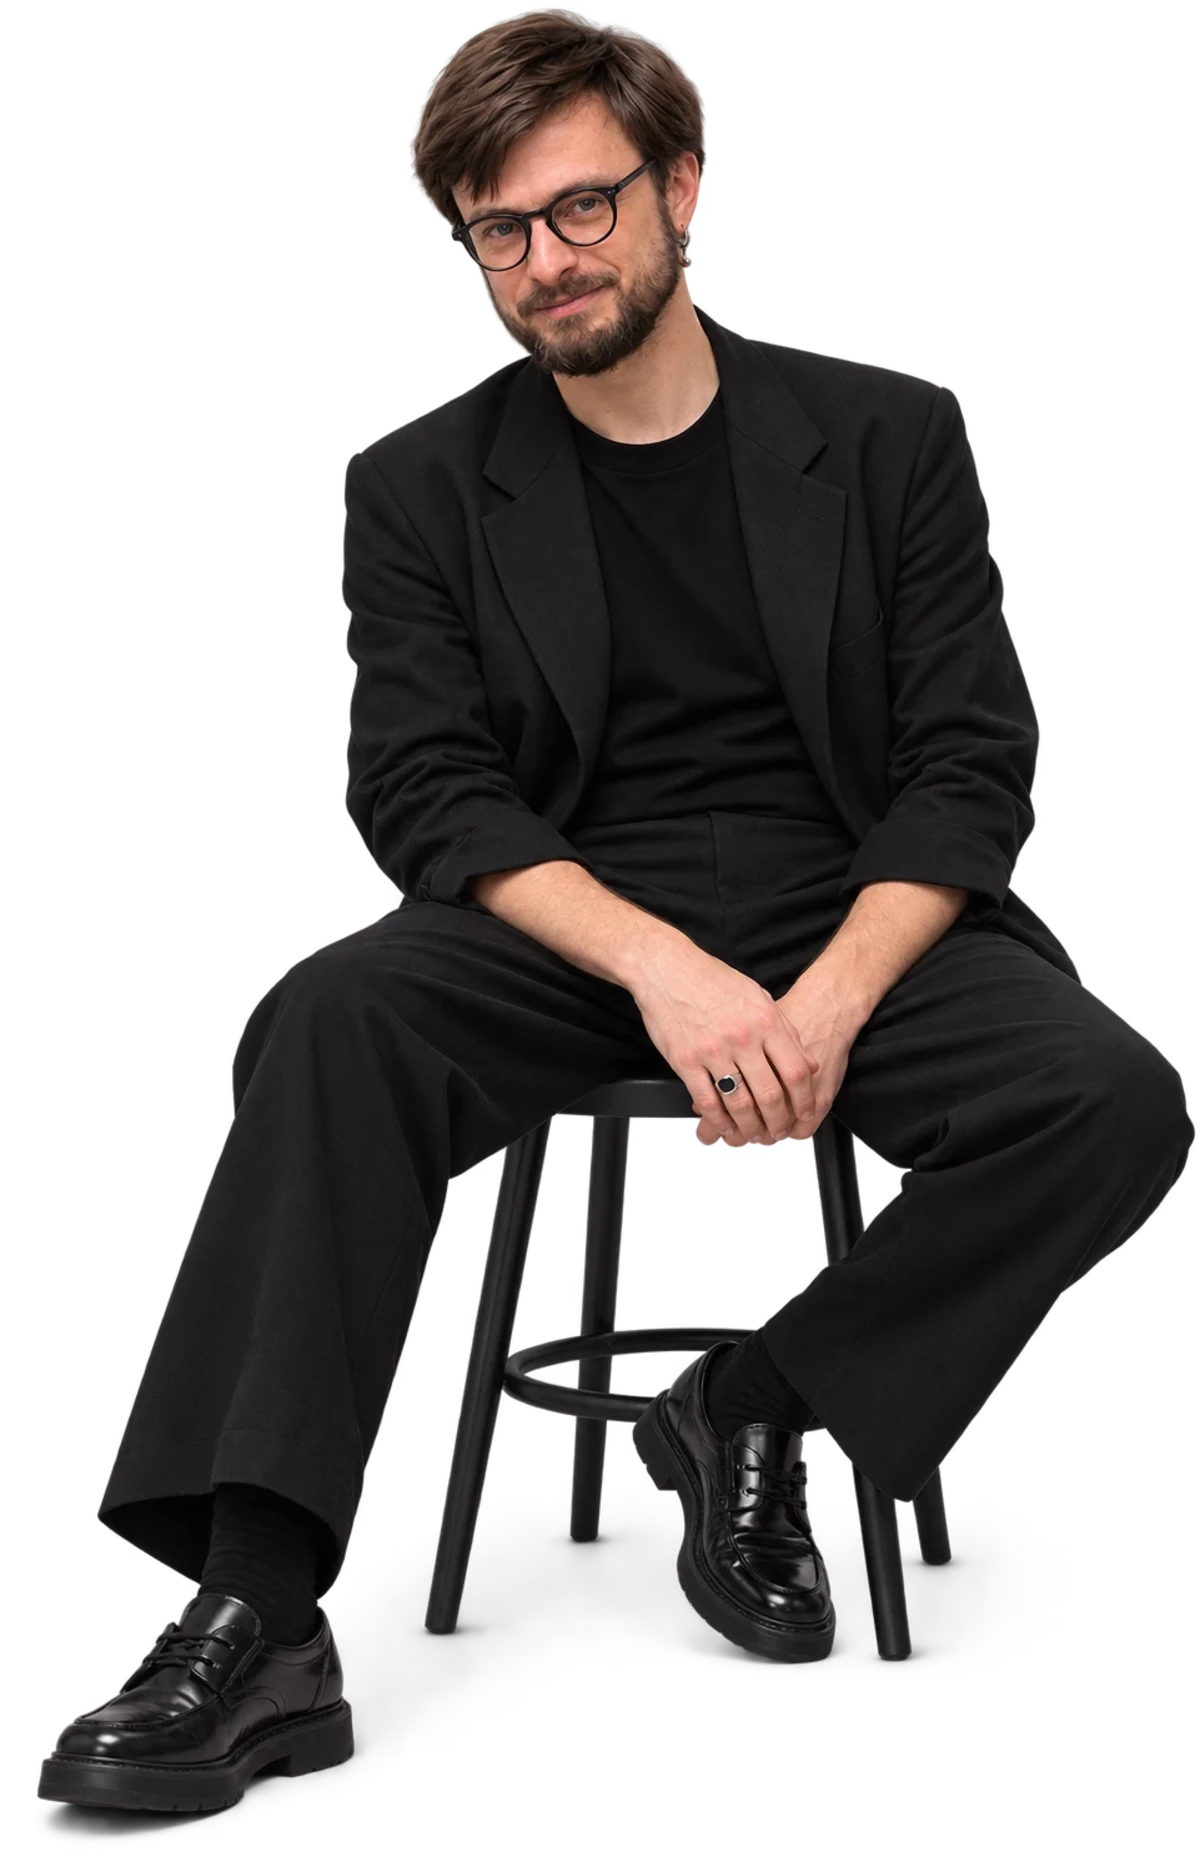
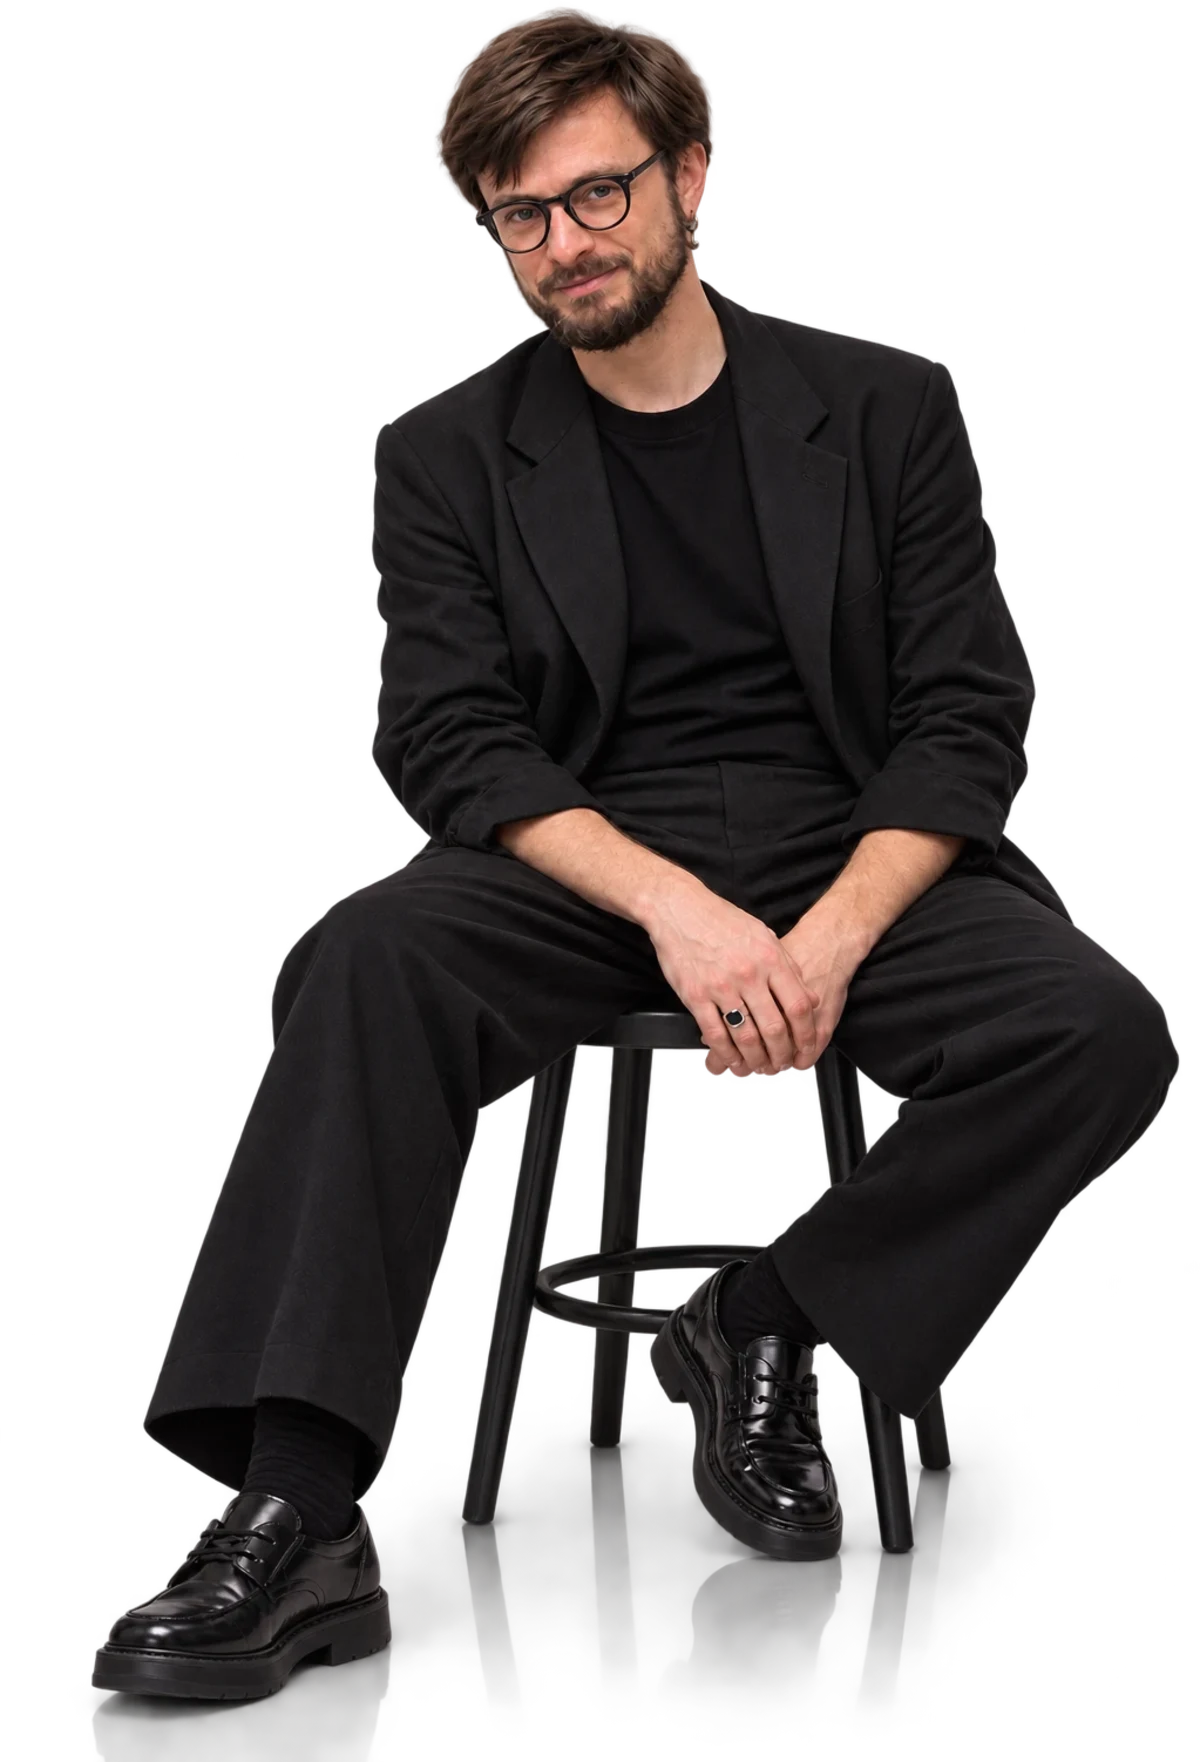
Заход заглушки пересобран
Шапка без вордмарка, подпись слева. «Привет, я Марк Калинин» стал
лидом к тексту, а не заголовком. Композиция поднята к верху экрана
и собрана плотнее: фигура (версия с отражением) перекрывает буквы
справа, надпись заканчивается выше дальней ножки стула. Параллакс
только вертикальный и только при прокрутке — буквы уходят вверх
быстрее фигуры. Воздуха до футера меньше.

diff --git a/app/globals.css b/app/globals.css
@@ -218,17 +218,41 @@ a {
 
 /* Лид начинается с 5-й колонки — там же, где ниже начинается список направлений. */
 /* Заглушка: буквы и фигура — отдельные слои, между ними лёгкий параллакс. */
-/* На заглушке первый экран собран плотнее: композиция вместо списка кейсов. */
+/* Заглушка: композиция слева, текст справа, первый экран собран плотно. */
 .is-soon .hero {
-  padding: clamp(48px, 7vw, 110px) 0 clamp(56px, 7vw, 110px);
+  padding: clamp(28px, 3.5vw, 56px) 0 clamp(40px, 5vw, 72px);
+}
+
+.is-soon .site-header .eyebrow {
+  grid-column: 1 / span 6;
+}
+
+/* «Привет, я Марк Калинин» работает лидом к тексту, а не заголовком. */
+.is-soon .intro {
+  min-height: 0;
+  margin: 0 0 clamp(18px, 1.8vw, 30px);
+  font-size: clamp(25px, 2.5vw, 38px);
+  line-height: 1.1;
+  letter-spacing: -0.04em;
+}
+
+.is-soon .typewriter-caret {
+  width: 1px;
+  height: 0.86em;
+}
+
+.is-soon .hero-copy {
+  grid-column: 5 / span 6;
+  margin-top: 0;
 }
 
 .hero-lockup {
   position: relative;
-  grid-column: 1 / span 6;
+  grid-column: 1 / span 4;
   align-self: start;
-  height: min(60svh, 600px);
-  margin-top: clamp(24px, 3vw, 44px);
+  height: min(64svh, 640px);
+  aspect-ratio: 0.72;
+  margin-top: 0;
 }
 
 .hero-lockup img {
@@ -238,29 +262,22 @@ a {
   will-change: transform;
 }
 
-/* Размер композиции задаёт высота: буквы во всю высоту, фигура поверх них. */
+/* Буквы стоят выше дальней ножки стула, фигура перекрывает их справа.
+   При прокрутке надпись уходит вверх быстрее фигуры — перспектива. */
 .hero-lockup .hero-lockup-type {
   left: 0;
   top: 0;
-  height: 100%;
+  height: 72%;
   width: auto;
-  transform: translate3d(
-    calc(var(--px, 0) * -10px),
-    calc(var(--py, 0) * -8px + var(--sy, 0) * -16px),
-    0
-  );
+  transform: translate3d(0, calc(var(--sy, 0) * -70px), 0);
 }
 
 .hero-lockup .hero-lockup-figure {
-  left: 40%;
-  bottom: -2%;
-  height: 82%;
+  right: 0;
+  bottom: 0;
+  height: 78%;
   width: auto;
-  transform: translate3d(
-    calc(var(--px, 0) * 16px),
-    calc(var(--py, 0) * 12px + var(--sy, 0) * 24px),
-    0
-  );
+  transform: translate3d(0, calc(var(--sy, 0) * -18px), 0);
 }
 
 .hero-copy {
@@ -1048,6 +1065,15 @@ html.case-open .case-pane {
   color: var(--accent);
 }
 
+.is-soon .soon {
+  padding: 16px 0 44px;
+}
+
+.is-soon .site-footer {
+  min-height: 0;
+  padding-top: 44px;
+}
+
 .site-footer {
   align-items: end;
   min-height: 55vh;
@@ -1205,6 +1231,12 @@ html.case-open .case-pane {
     white-space: nowrap;
   }
 
+  /* На заглушке вордмарка нет — подпись идёт слева. */
+  .is-soon .eyebrow {
+    grid-column: 1 / -1;
+    text-align: left;
+  }
+
   .hero {
     padding: 44px 0 56px;
   }
@@ -1226,8 +1258,17 @@ html.case-open .case-pane {
 
   .hero-lockup {
     grid-column: 1 / -1;
-    height: min(52svh, 420px);
-    margin-top: 24px;
+    height: min(46svh, 380px);
+    margin-top: 8px;
+  }
+
+  .is-soon .hero-copy {
+    grid-column: 1 / -1;
+    margin-top: 28px;
+  }
+
+  .is-soon .intro {
+    font-size: 24px;
   }
 
   .hero-copy {

diff --git a/app/page.tsx b/app/page.tsx
@@ -7,51 +7,47 @@ export default function Home() {
   return (
     <main className="site-shell is-soon">
       <header className="site-header">
-        <a className="wordmark" href="#top" aria-label="Всё так — в начало">
-          Всё так<span className="wordmark-dot">.</span>
-        </a>
-
         <p className="eyebrow">Контент, дизайн, концепции</p>
       </header>
 
       <section className="hero" id="top" aria-labelledby="intro-heading">
-        <h1 className="intro" id="intro-heading" aria-label={intro}>
-          <span className="sr-only">{intro}</span>
-          <span className="typewriter" aria-hidden="true">
-            {introLines.map((line, lineIndex) => {
-              const characterOffset = introLines
-                .slice(0, lineIndex)
-                .reduce((total, current) => total + current.length + 1, 0);
-
-              return (
-                <span className="typewriter-line" key={line}>
-                  {Array.from(line).map((character, characterIndex) => {
-                    const index = characterOffset + characterIndex;
-
-                    return (
-                      <span
-                        className="typewriter-character"
-                        style={
-                          { "--character-index": index } as React.CSSProperties
-                        }
-                        key={`${character}-${index}`}
-                      >
-                        {character === " " ? " " : character}
-                      </span>
-                    );
-                  })}
-                  {lineIndex === introLines.length - 1 && (
-                    <span className="typewriter-caret" />
-                  )}
-                </span>
-              );
-            })}
-          </span>
-        </h1>
-
         <HeroLockup />
 
         <div className="hero-copy">
+          <h1 className="intro" id="intro-heading" aria-label={intro}>
+            <span className="sr-only">{intro}</span>
+            <span className="typewriter" aria-hidden="true">
+              {introLines.map((line, lineIndex) => {
+                const characterOffset = introLines
+                  .slice(0, lineIndex)
+                  .reduce((total, current) => total + current.length + 1, 0);
+
+                return (
+                  <span className="typewriter-line" key={line}>
+                    {Array.from(line).map((character, characterIndex) => {
+                      const index = characterOffset + characterIndex;
+
+                      return (
+                        <span
+                          className="typewriter-character"
+                          style={
+                            { "--character-index": index } as React.CSSProperties
+                          }
+                          key={`${character}-${index}`}
+                        >
+                          {character === " " ? " " : character}
+                        </span>
+                      );
+                    })}
+                    {lineIndex === introLines.length - 1 && (
+                      <span className="typewriter-caret" />
+                    )}
+                  </span>
+                );
+              })}
+            </span>
+          </h1>
+
           <p className="lead">
             {
               "«Всё так» — моя моностудия контента, дизайна и цифровых продуктов."

diff --git a/app/components/HeroLockup.tsx b/app/components/HeroLockup.tsx
@@ -2,8 +2,8 @@
 
 import { useEffect, useRef } from "react";
 
-// Композиция заглушки: буквы и фигура — отдельные слои,
-// они чуть расходятся от курсора и при прокрутке.
+// Композиция заглушки: буквы и фигура — отдельные слои.
+// При прокрутке надпись уходит вверх быстрее фигуры, вбок ничего не едет.
 export function HeroLockup() {
   const ref = useRef<HTMLDivElement>(null);
 
@@ -13,15 +13,13 @@ export function HeroLockup() {
     if (window.matchMedia("(prefers-reduced-motion: reduce)").matches) return;
 
     let frame = 0;
-    let pointerX = 0;
-    let pointerY = 0;
-    let scroll = 0;
 
     const paint = () => {
       frame = 0;
-      node.style.setProperty("--px", pointerX.toFixed(3));
-      node.style.setProperty("--py", pointerY.toFixed(3));
-      node.style.setProperty("--sy", scroll.toFixed(3));
+      const box = node.getBoundingClientRect();
+      const middle = box.top + box.height / 2;
+      const shift = (window.innerHeight / 2 - middle) / window.innerHeight;
+      node.style.setProperty("--sy", shift.toFixed(3));
     };
 
     const schedule = () => {
@@ -29,35 +27,19 @@ export function HeroLockup() {
       frame = window.requestAnimationFrame(paint);
     };
 
-    const onPointerMove = (event: PointerEvent) => {
-      const box = node.getBoundingClientRect();
-      pointerX = (event.clientX - (box.left + box.width / 2)) / box.width;
-      pointerY = (event.clientY - (box.top + box.height / 2)) / box.height;
-      schedule();
-    };
-
-    const onScroll = () => {
-      const box = node.getBoundingClientRect();
-      const middle = box.top + box.height / 2;
-      scroll = (window.innerHeight / 2 - middle) / window.innerHeight;
-      schedule();
-    };
-
-    window.addEventListener("pointermove", onPointerMove, { passive: true });
-    window.addEventListener("scroll", onScroll, { passive: true });
-    window.addEventListener("resize", onScroll);
-    onScroll();
+    window.addEventListener("scroll", schedule, { passive: true });
+    window.addEventListener("resize", schedule);
+    schedule();
 
     return () => {
-      window.removeEventListener("pointermove", onPointerMove);
-      window.removeEventListener("scroll", onScroll);
-      window.removeEventListener("resize", onScroll);
+      window.removeEventListener("scroll", schedule);
+      window.removeEventListener("resize", schedule);
       if (frame) window.cancelAnimationFrame(frame);
     };
   }, []);
 
   return (
-    <div className="hero-lockup" ref={ref} aria-hidden="false">
+    <div className="hero-lockup" ref={ref}>
       <img
         className="hero-lockup-type"
         src="/hero/vse-tak.webp"
@@ -70,7 +52,7 @@ export function HeroLockup() {
         src="/hero/mark.webp"
         alt="Марк Калинин"
         width={1200}
-        height={1857}
+        height={1762}
       />
     </div>
   );
